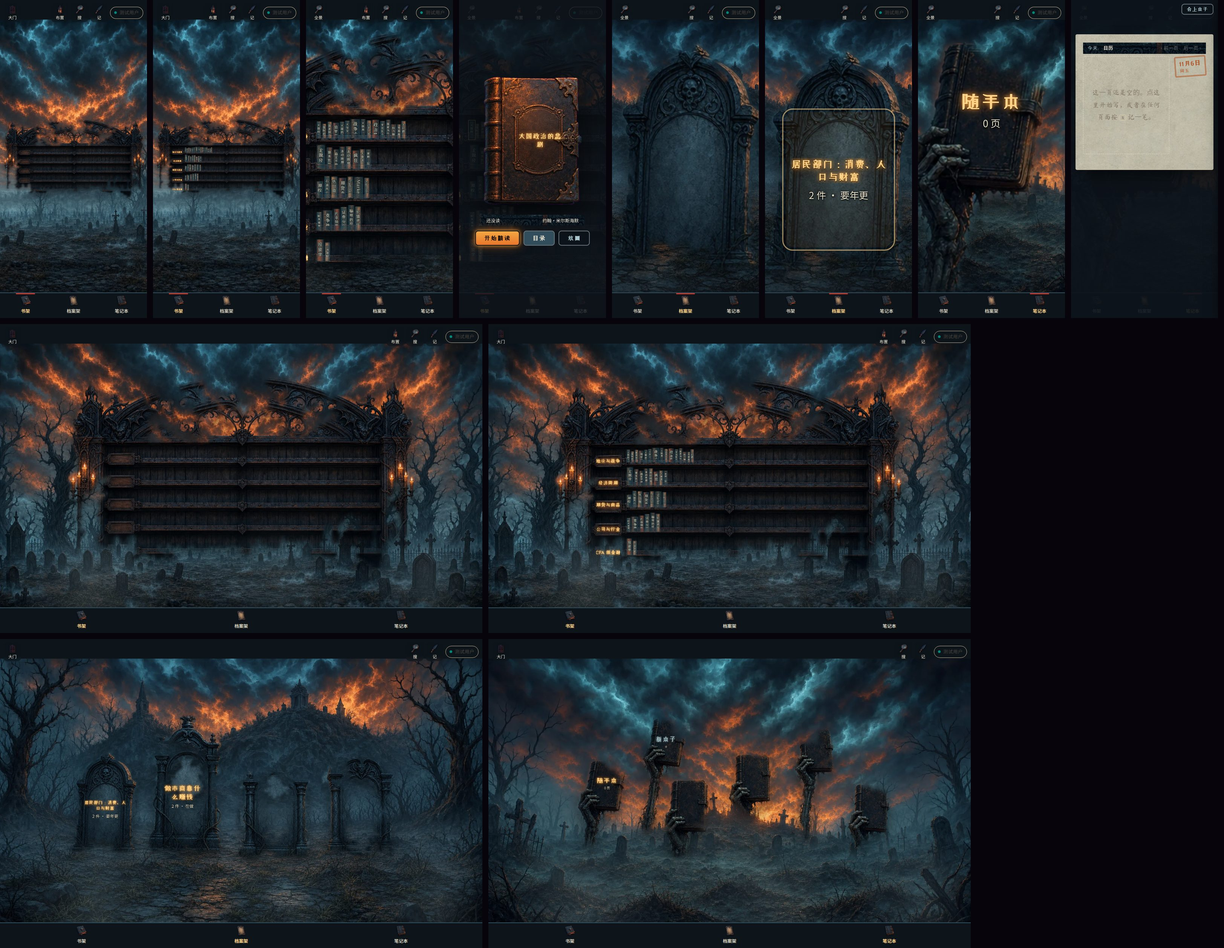
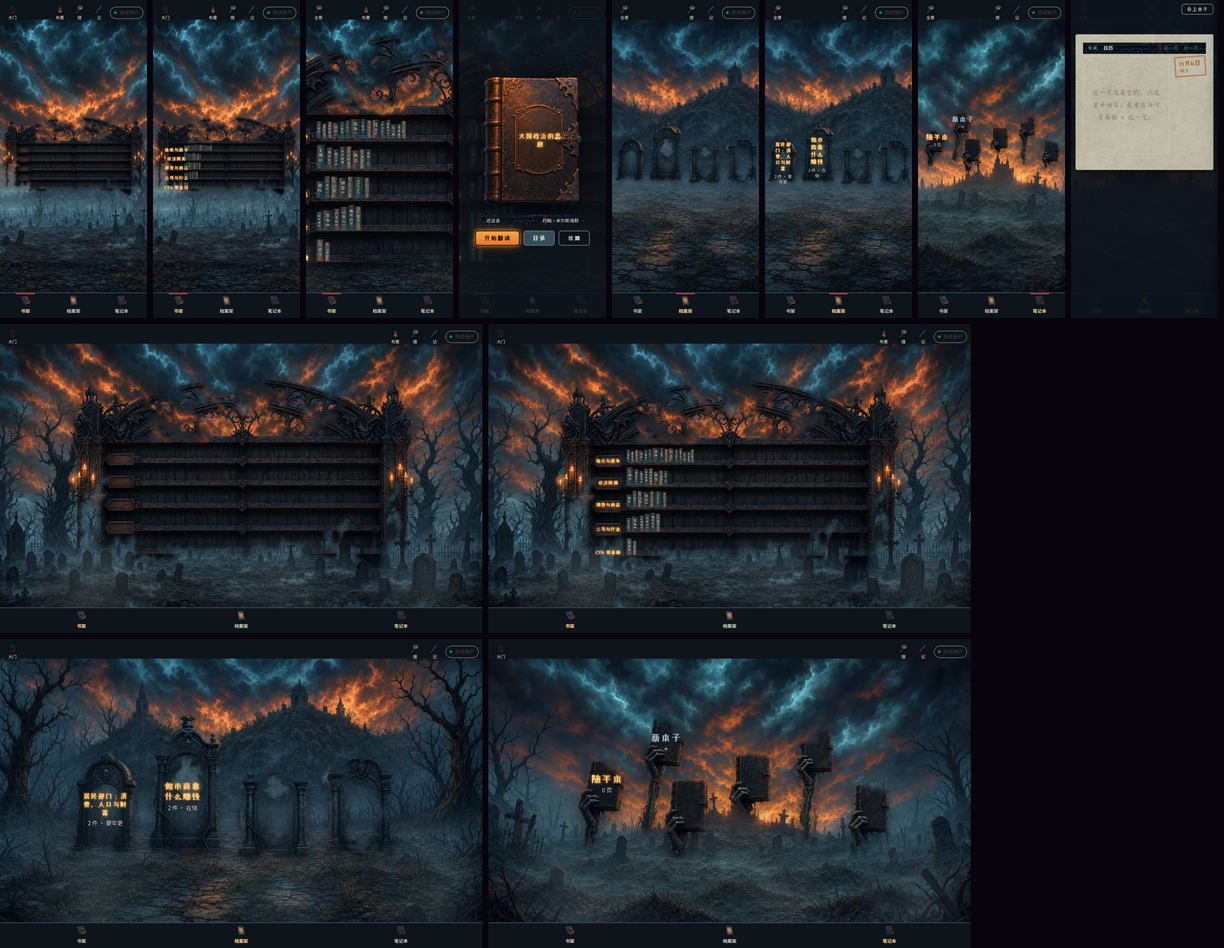
手机三场整座家具完整装进屏幕；碑名、本名、领域牌按屏幕尺寸画，远景隐藏书脊题签

diff --git a/dist/artifact.html b/dist/artifact.html
@@ -2782,6 +2782,18 @@ html.yx-app-scene[data-narrow="1"] .yx-world:not(.zoomed) .yx-rowhit{display:blo
 .yx-sheet-bar{display:flex;justify-content:flex-end;max-width:980px;margin:0 auto 8px}
 .yx-sheet .phead,.yx-sheet .yx-notes,.yx-sheet .nrack,.yx-sheet .banner{display:none}
 .yx-sheet .view{padding:0}
+
+/* 舞台上的字按屏幕尺寸画：世界缩小时字不跟着缩（--s 是镜头比例，--L 是屏幕上的基准字号） */
+.yx-stage{--L:18px}
+@media (max-width:900px){.yx-stage{--L:13px}}
+.yx-stage .yx-world .yx-stone-n{font-size:calc(var(--L) * var(--lab,1) * 1.5 / var(--s,1));line-height:1.2;white-space:normal;overflow:visible;max-width:calc(150px / var(--s,1))}
+.yx-stage .yx-world .yx-stone-s{font-size:calc(var(--L) * .85 / var(--s,1))}
+.yx-stage .yx-world .yx-stone{gap:calc(6px / var(--s,1));padding:0}
+.yx-stage .yx-world .yx-nb-n{font-size:calc(var(--L) * 1.4 / var(--s,1))}
+.yx-stage .yx-world .yx-nb-s{font-size:calc(var(--L) * .85 / var(--s,1))}
+.yx-stage .yx-world .yx-plaque{font-size:calc(var(--L) * .9 / var(--s,1));overflow:visible;white-space:nowrap}
+.yx-stage .yx-world.far .yx-book .yx-t{display:none}
+.yx-stage .yx-world:not(.far) .yx-plaque{font-size:18px}
 </style>
 
 <header class="topbar" id="rail"></header>
@@ -10988,8 +11000,8 @@ var FOIL = (function () {
     } else if (name === "archive") {
       var stones = yxStones(), P = YX.arch.panels;
       stones.slice(0, P.length).forEach(function (st, j) {
-        var p = P[j], Ln = String(st.name).length, fs = Ln <= 4 ? 32 : Ln <= 8 ? 26 : Ln <= 12 ? 21 : 17;
-        items += '<button type="button" class="yx-stone' + (st.folder ? " folder" : "") + '" data-act="abox" data-t="' + esc(st.t) + '" style="left:' + p[0] + "px;top:" + p[1] + "px;width:" + (p[2] - p[0]) + "px;height:" + (p[3] - p[1]) + "px;--i:" + (n++) + '"><span class="yx-stone-n" style="font-size:' + fs + 'px">' + esc(st.name) + '</span><span class="yx-stone-s">' + esc(st.sub) + "</span></button>";
+        var p = P[j], Ln = String(st.name).length;
+        items += '<button type="button" class="yx-stone' + (st.folder ? " folder" : "") + '" data-act="abox" data-t="' + esc(st.t) + '" style="left:' + p[0] + "px;top:" + p[1] + "px;width:" + (p[2] - p[0]) + "px;height:" + (p[3] - p[1]) + "px;--i:" + (n++) + ";--lab:" + (Ln <= 4 ? 1 : Ln <= 8 ? .82 : .68) + '"><span class="yx-stone-n">' + esc(st.name) + '</span><span class="yx-stone-s">' + esc(st.sub) + "</span></button>";
         anchors.push({ x: (p[0] + p[2]) / 2, y: (p[1] + p[3]) / 2 - 40 });
       });
       if (!stones.length) items += '<span class="yx-plaque" style="left:560px;top:560px;width:420px;height:60px">档案架还是空的</span>';
@@ -11013,19 +11025,17 @@ var FOIL = (function () {
     var W = stage.clientWidth, H = stage.clientHeight;
     world.style.transition = anim && !REDUCE ? "transform .42s cubic-bezier(.22,.9,.3,1)" : "none";
     world.style.transform = "translate(" + Math.round(W / 2 - CAM.cx * CAM.s) + "px," + Math.round(H / 2 - CAM.cy * CAM.s) + "px) scale(" + CAM.s.toFixed(4) + ")";
+    world.style.setProperty("--s", CAM.s.toFixed(4)); world.classList.toggle("far", CAM.s < 0.45);
   }
   function yxCamPreset(stage) {
     var W = stage.clientWidth, H = stage.clientHeight, name = stage.getAttribute("data-scene"), L = yxLayer(name), b = L.box, narrow = W < 900, A = S.yxAnchors || [];
-    if (!narrow || name === "shelf" && !S.yxZoomed) {
-      /* 整座家具完整放进屏里：桌面按整个世界 contain；手机按家具的包围盒适配宽度 */
-      var s = narrow ? Math.min((W - 16) / (b[2] - b[0]), (H - 40) / (b[3] - b[1])) : Math.min(W / YX.scene.w, H / YX.scene.h);
-      CAM = { s: s, cx: narrow ? (b[0] + b[2]) / 2 : YX.scene.w / 2, cy: narrow ? (b[1] + b[3]) / 2 : YX.scene.h / 2, zoomed: false };
-    } else if (name === "shelf") {
+    if (!narrow || !(name === "shelf" && S.yxZoomed)) {
+      /* 整座家具完整放进屏里：桌面按整个世界 contain；手机按家具的包围盒适配宽度（三个场都整座可见，字按屏幕尺寸另画） */
+      var s = narrow ? Math.min((W - 12) / (b[2] - b[0]), (H - 120) / (b[3] - b[1])) : Math.min(W / YX.scene.w, H / YX.scene.h);
+      CAM = { s: s, cx: narrow ? (b[0] + b[2]) / 2 : YX.scene.w / 2, cy: narrow ? (b[1] + b[3]) / 2 + 20 : YX.scene.h / 2, zoomed: false };
+    } else {
       var a = A.filter(function (x) { return x.row === S.yxZoomRow; })[0] || A[0] || { x: 600, y: 500 };
       CAM = { s: W / 430, cx: a.x, cy: a.y, zoomed: true };
-    } else {
-      var a2 = A[S.yxPanIx || 0] || { x: 768, y: 512 }, s2 = name === "archive" ? 0.72 * W / 180 : 0.62 * W / 120;
-      CAM = { s: s2, cx: a2.x, cy: a2.y, zoomed: false };
     }
   }
   function yxStageMount() {
@@ -11050,7 +11060,7 @@ var FOIL = (function () {
       if (sx === null) return; var dx = e.clientX - sx, dy = e.clientY - sy;
       if (!moved && Math.abs(dx) + Math.abs(dy) < 8) return;
       moved = true; var W = stage.clientWidth, H = stage.clientHeight, name = stage.getAttribute("data-scene");
-      var canPan = W < 900 && (name !== "shelf" || CAM.zoomed); if (!canPan) return;
+      var canPan = W < 900 && CAM.zoomed; if (!canPan) return;
       CAM.cx = Math.max(W / 2 / CAM.s, Math.min(YX.scene.w - W / 2 / CAM.s, c0.cx - dx / CAM.s));
       if (name === "shelf") CAM.cy = Math.max(H / 2 / CAM.s, Math.min(YX.scene.h - H / 2 / CAM.s, c0.cy - dy / CAM.s));
       yxCam(stage, world, false);
@@ -11059,7 +11069,7 @@ var FOIL = (function () {
       if (sx === null) return; sx = null;
       if (!moved) return; movedAt = Date.now();
       var name = stage.getAttribute("data-scene"), A = S.yxAnchors || [];
-      if (name !== "shelf" && A.length) { var best = 0, bd = 1e9; A.forEach(function (a, i) { var d = Math.abs(a.x - CAM.cx); if (d < bd) { bd = d; best = i; } }); S.yxPanIx = best; yxCamPreset(stage); yxCam(stage, world, true); }
+      void name; void A;
     };
     stage.addEventListener("pointerup", up); stage.addEventListener("pointercancel", up); stage.addEventListener("pointerleave", up);
     stage.addEventListener("click", function (e) { if (Date.now() - movedAt < 350) { e.stopPropagation(); e.preventDefault(); } }, true);

diff --git a/index.html b/index.html
@@ -2790,6 +2790,18 @@ html.yx-app-scene[data-narrow="1"] .yx-world:not(.zoomed) .yx-rowhit{display:blo
 .yx-sheet-bar{display:flex;justify-content:flex-end;max-width:980px;margin:0 auto 8px}
 .yx-sheet .phead,.yx-sheet .yx-notes,.yx-sheet .nrack,.yx-sheet .banner{display:none}
 .yx-sheet .view{padding:0}
+
+/* 舞台上的字按屏幕尺寸画：世界缩小时字不跟着缩（--s 是镜头比例，--L 是屏幕上的基准字号） */
+.yx-stage{--L:18px}
+@media (max-width:900px){.yx-stage{--L:13px}}
+.yx-stage .yx-world .yx-stone-n{font-size:calc(var(--L) * var(--lab,1) * 1.5 / var(--s,1));line-height:1.2;white-space:normal;overflow:visible;max-width:calc(150px / var(--s,1))}
+.yx-stage .yx-world .yx-stone-s{font-size:calc(var(--L) * .85 / var(--s,1))}
+.yx-stage .yx-world .yx-stone{gap:calc(6px / var(--s,1));padding:0}
+.yx-stage .yx-world .yx-nb-n{font-size:calc(var(--L) * 1.4 / var(--s,1))}
+.yx-stage .yx-world .yx-nb-s{font-size:calc(var(--L) * .85 / var(--s,1))}
+.yx-stage .yx-world .yx-plaque{font-size:calc(var(--L) * .9 / var(--s,1));overflow:visible;white-space:nowrap}
+.yx-stage .yx-world.far .yx-book .yx-t{display:none}
+.yx-stage .yx-world:not(.far) .yx-plaque{font-size:18px}
 </style>
 
 <header class="topbar" id="rail"></header>
@@ -10996,8 +11008,8 @@ var FOIL = (function () {
     } else if (name === "archive") {
       var stones = yxStones(), P = YX.arch.panels;
       stones.slice(0, P.length).forEach(function (st, j) {
-        var p = P[j], Ln = String(st.name).length, fs = Ln <= 4 ? 32 : Ln <= 8 ? 26 : Ln <= 12 ? 21 : 17;
-        items += '<button type="button" class="yx-stone' + (st.folder ? " folder" : "") + '" data-act="abox" data-t="' + esc(st.t) + '" style="left:' + p[0] + "px;top:" + p[1] + "px;width:" + (p[2] - p[0]) + "px;height:" + (p[3] - p[1]) + "px;--i:" + (n++) + '"><span class="yx-stone-n" style="font-size:' + fs + 'px">' + esc(st.name) + '</span><span class="yx-stone-s">' + esc(st.sub) + "</span></button>";
+        var p = P[j], Ln = String(st.name).length;
+        items += '<button type="button" class="yx-stone' + (st.folder ? " folder" : "") + '" data-act="abox" data-t="' + esc(st.t) + '" style="left:' + p[0] + "px;top:" + p[1] + "px;width:" + (p[2] - p[0]) + "px;height:" + (p[3] - p[1]) + "px;--i:" + (n++) + ";--lab:" + (Ln <= 4 ? 1 : Ln <= 8 ? .82 : .68) + '"><span class="yx-stone-n">' + esc(st.name) + '</span><span class="yx-stone-s">' + esc(st.sub) + "</span></button>";
         anchors.push({ x: (p[0] + p[2]) / 2, y: (p[1] + p[3]) / 2 - 40 });
       });
       if (!stones.length) items += '<span class="yx-plaque" style="left:560px;top:560px;width:420px;height:60px">档案架还是空的</span>';
@@ -11021,19 +11033,17 @@ var FOIL = (function () {
     var W = stage.clientWidth, H = stage.clientHeight;
     world.style.transition = anim && !REDUCE ? "transform .42s cubic-bezier(.22,.9,.3,1)" : "none";
     world.style.transform = "translate(" + Math.round(W / 2 - CAM.cx * CAM.s) + "px," + Math.round(H / 2 - CAM.cy * CAM.s) + "px) scale(" + CAM.s.toFixed(4) + ")";
+    world.style.setProperty("--s", CAM.s.toFixed(4)); world.classList.toggle("far", CAM.s < 0.45);
   }
   function yxCamPreset(stage) {
     var W = stage.clientWidth, H = stage.clientHeight, name = stage.getAttribute("data-scene"), L = yxLayer(name), b = L.box, narrow = W < 900, A = S.yxAnchors || [];
-    if (!narrow || name === "shelf" && !S.yxZoomed) {
-      /* 整座家具完整放进屏里：桌面按整个世界 contain；手机按家具的包围盒适配宽度 */
-      var s = narrow ? Math.min((W - 16) / (b[2] - b[0]), (H - 40) / (b[3] - b[1])) : Math.min(W / YX.scene.w, H / YX.scene.h);
-      CAM = { s: s, cx: narrow ? (b[0] + b[2]) / 2 : YX.scene.w / 2, cy: narrow ? (b[1] + b[3]) / 2 : YX.scene.h / 2, zoomed: false };
-    } else if (name === "shelf") {
+    if (!narrow || !(name === "shelf" && S.yxZoomed)) {
+      /* 整座家具完整放进屏里：桌面按整个世界 contain；手机按家具的包围盒适配宽度（三个场都整座可见，字按屏幕尺寸另画） */
+      var s = narrow ? Math.min((W - 12) / (b[2] - b[0]), (H - 120) / (b[3] - b[1])) : Math.min(W / YX.scene.w, H / YX.scene.h);
+      CAM = { s: s, cx: narrow ? (b[0] + b[2]) / 2 : YX.scene.w / 2, cy: narrow ? (b[1] + b[3]) / 2 + 20 : YX.scene.h / 2, zoomed: false };
+    } else {
       var a = A.filter(function (x) { return x.row === S.yxZoomRow; })[0] || A[0] || { x: 600, y: 500 };
       CAM = { s: W / 430, cx: a.x, cy: a.y, zoomed: true };
-    } else {
-      var a2 = A[S.yxPanIx || 0] || { x: 768, y: 512 }, s2 = name === "archive" ? 0.72 * W / 180 : 0.62 * W / 120;
-      CAM = { s: s2, cx: a2.x, cy: a2.y, zoomed: false };
     }
   }
   function yxStageMount() {
@@ -11058,7 +11068,7 @@ var FOIL = (function () {
       if (sx === null) return; var dx = e.clientX - sx, dy = e.clientY - sy;
       if (!moved && Math.abs(dx) + Math.abs(dy) < 8) return;
       moved = true; var W = stage.clientWidth, H = stage.clientHeight, name = stage.getAttribute("data-scene");
-      var canPan = W < 900 && (name !== "shelf" || CAM.zoomed); if (!canPan) return;
+      var canPan = W < 900 && CAM.zoomed; if (!canPan) return;
       CAM.cx = Math.max(W / 2 / CAM.s, Math.min(YX.scene.w - W / 2 / CAM.s, c0.cx - dx / CAM.s));
       if (name === "shelf") CAM.cy = Math.max(H / 2 / CAM.s, Math.min(YX.scene.h - H / 2 / CAM.s, c0.cy - dy / CAM.s));
       yxCam(stage, world, false);
@@ -11067,7 +11077,7 @@ var FOIL = (function () {
       if (sx === null) return; sx = null;
       if (!moved) return; movedAt = Date.now();
       var name = stage.getAttribute("data-scene"), A = S.yxAnchors || [];
-      if (name !== "shelf" && A.length) { var best = 0, bd = 1e9; A.forEach(function (a, i) { var d = Math.abs(a.x - CAM.cx); if (d < bd) { bd = d; best = i; } }); S.yxPanIx = best; yxCamPreset(stage); yxCam(stage, world, true); }
+      void name; void A;
     };
     stage.addEventListener("pointerup", up); stage.addEventListener("pointercancel", up); stage.addEventListener("pointerleave", up);
     stage.addEventListener("click", function (e) { if (Date.now() - movedAt < 350) { e.stopPropagation(); e.preventDefault(); } }, true);

diff --git a/server/index.html b/server/index.html
@@ -2790,6 +2790,18 @@ html.yx-app-scene[data-narrow="1"] .yx-world:not(.zoomed) .yx-rowhit{display:blo
 .yx-sheet-bar{display:flex;justify-content:flex-end;max-width:980px;margin:0 auto 8px}
 .yx-sheet .phead,.yx-sheet .yx-notes,.yx-sheet .nrack,.yx-sheet .banner{display:none}
 .yx-sheet .view{padding:0}
+
+/* 舞台上的字按屏幕尺寸画：世界缩小时字不跟着缩（--s 是镜头比例，--L 是屏幕上的基准字号） */
+.yx-stage{--L:18px}
+@media (max-width:900px){.yx-stage{--L:13px}}
+.yx-stage .yx-world .yx-stone-n{font-size:calc(var(--L) * var(--lab,1) * 1.5 / var(--s,1));line-height:1.2;white-space:normal;overflow:visible;max-width:calc(150px / var(--s,1))}
+.yx-stage .yx-world .yx-stone-s{font-size:calc(var(--L) * .85 / var(--s,1))}
+.yx-stage .yx-world .yx-stone{gap:calc(6px / var(--s,1));padding:0}
+.yx-stage .yx-world .yx-nb-n{font-size:calc(var(--L) * 1.4 / var(--s,1))}
+.yx-stage .yx-world .yx-nb-s{font-size:calc(var(--L) * .85 / var(--s,1))}
+.yx-stage .yx-world .yx-plaque{font-size:calc(var(--L) * .9 / var(--s,1));overflow:visible;white-space:nowrap}
+.yx-stage .yx-world.far .yx-book .yx-t{display:none}
+.yx-stage .yx-world:not(.far) .yx-plaque{font-size:18px}
 </style>
 
 <header class="topbar" id="rail"></header>
@@ -11143,8 +11155,8 @@ var FOIL = (function () {
     } else if (name === "archive") {
       var stones = yxStones(), P = YX.arch.panels;
       stones.slice(0, P.length).forEach(function (st, j) {
-        var p = P[j], Ln = String(st.name).length, fs = Ln <= 4 ? 32 : Ln <= 8 ? 26 : Ln <= 12 ? 21 : 17;
-        items += '<button type="button" class="yx-stone' + (st.folder ? " folder" : "") + '" data-act="abox" data-t="' + esc(st.t) + '" style="left:' + p[0] + "px;top:" + p[1] + "px;width:" + (p[2] - p[0]) + "px;height:" + (p[3] - p[1]) + "px;--i:" + (n++) + '"><span class="yx-stone-n" style="font-size:' + fs + 'px">' + esc(st.name) + '</span><span class="yx-stone-s">' + esc(st.sub) + "</span></button>";
+        var p = P[j], Ln = String(st.name).length;
+        items += '<button type="button" class="yx-stone' + (st.folder ? " folder" : "") + '" data-act="abox" data-t="' + esc(st.t) + '" style="left:' + p[0] + "px;top:" + p[1] + "px;width:" + (p[2] - p[0]) + "px;height:" + (p[3] - p[1]) + "px;--i:" + (n++) + ";--lab:" + (Ln <= 4 ? 1 : Ln <= 8 ? .82 : .68) + '"><span class="yx-stone-n">' + esc(st.name) + '</span><span class="yx-stone-s">' + esc(st.sub) + "</span></button>";
         anchors.push({ x: (p[0] + p[2]) / 2, y: (p[1] + p[3]) / 2 - 40 });
       });
       if (!stones.length) items += '<span class="yx-plaque" style="left:560px;top:560px;width:420px;height:60px">档案架还是空的</span>';
@@ -11168,19 +11180,17 @@ var FOIL = (function () {
     var W = stage.clientWidth, H = stage.clientHeight;
     world.style.transition = anim && !REDUCE ? "transform .42s cubic-bezier(.22,.9,.3,1)" : "none";
     world.style.transform = "translate(" + Math.round(W / 2 - CAM.cx * CAM.s) + "px," + Math.round(H / 2 - CAM.cy * CAM.s) + "px) scale(" + CAM.s.toFixed(4) + ")";
+    world.style.setProperty("--s", CAM.s.toFixed(4)); world.classList.toggle("far", CAM.s < 0.45);
   }
   function yxCamPreset(stage) {
     var W = stage.clientWidth, H = stage.clientHeight, name = stage.getAttribute("data-scene"), L = yxLayer(name), b = L.box, narrow = W < 900, A = S.yxAnchors || [];
-    if (!narrow || name === "shelf" && !S.yxZoomed) {
-      /* 整座家具完整放进屏里：桌面按整个世界 contain；手机按家具的包围盒适配宽度 */
-      var s = narrow ? Math.min((W - 16) / (b[2] - b[0]), (H - 40) / (b[3] - b[1])) : Math.min(W / YX.scene.w, H / YX.scene.h);
-      CAM = { s: s, cx: narrow ? (b[0] + b[2]) / 2 : YX.scene.w / 2, cy: narrow ? (b[1] + b[3]) / 2 : YX.scene.h / 2, zoomed: false };
-    } else if (name === "shelf") {
+    if (!narrow || !(name === "shelf" && S.yxZoomed)) {
+      /* 整座家具完整放进屏里：桌面按整个世界 contain；手机按家具的包围盒适配宽度（三个场都整座可见，字按屏幕尺寸另画） */
+      var s = narrow ? Math.min((W - 12) / (b[2] - b[0]), (H - 120) / (b[3] - b[1])) : Math.min(W / YX.scene.w, H / YX.scene.h);
+      CAM = { s: s, cx: narrow ? (b[0] + b[2]) / 2 : YX.scene.w / 2, cy: narrow ? (b[1] + b[3]) / 2 + 20 : YX.scene.h / 2, zoomed: false };
+    } else {
       var a = A.filter(function (x) { return x.row === S.yxZoomRow; })[0] || A[0] || { x: 600, y: 500 };
       CAM = { s: W / 430, cx: a.x, cy: a.y, zoomed: true };
-    } else {
-      var a2 = A[S.yxPanIx || 0] || { x: 768, y: 512 }, s2 = name === "archive" ? 0.72 * W / 180 : 0.62 * W / 120;
-      CAM = { s: s2, cx: a2.x, cy: a2.y, zoomed: false };
     }
   }
   function yxStageMount() {
@@ -11205,7 +11215,7 @@ var FOIL = (function () {
       if (sx === null) return; var dx = e.clientX - sx, dy = e.clientY - sy;
       if (!moved && Math.abs(dx) + Math.abs(dy) < 8) return;
       moved = true; var W = stage.clientWidth, H = stage.clientHeight, name = stage.getAttribute("data-scene");
-      var canPan = W < 900 && (name !== "shelf" || CAM.zoomed); if (!canPan) return;
+      var canPan = W < 900 && CAM.zoomed; if (!canPan) return;
       CAM.cx = Math.max(W / 2 / CAM.s, Math.min(YX.scene.w - W / 2 / CAM.s, c0.cx - dx / CAM.s));
       if (name === "shelf") CAM.cy = Math.max(H / 2 / CAM.s, Math.min(YX.scene.h - H / 2 / CAM.s, c0.cy - dy / CAM.s));
       yxCam(stage, world, false);
@@ -11214,7 +11224,7 @@ var FOIL = (function () {
       if (sx === null) return; sx = null;
       if (!moved) return; movedAt = Date.now();
       var name = stage.getAttribute("data-scene"), A = S.yxAnchors || [];
-      if (name !== "shelf" && A.length) { var best = 0, bd = 1e9; A.forEach(function (a, i) { var d = Math.abs(a.x - CAM.cx); if (d < bd) { bd = d; best = i; } }); S.yxPanIx = best; yxCamPreset(stage); yxCam(stage, world, true); }
+      void name; void A;
     };
     stage.addEventListener("pointerup", up); stage.addEventListener("pointercancel", up); stage.addEventListener("pointerleave", up);
     stage.addEventListener("click", function (e) { if (Date.now() - movedAt < 350) { e.stopPropagation(); e.preventDefault(); } }, true);

diff --git a/youchai/index.html b/youchai/index.html
@@ -2791,6 +2791,18 @@ html.yx-app-scene[data-narrow="1"] .yx-world:not(.zoomed) .yx-rowhit{display:blo
 .yx-sheet-bar{display:flex;justify-content:flex-end;max-width:980px;margin:0 auto 8px}
 .yx-sheet .phead,.yx-sheet .yx-notes,.yx-sheet .nrack,.yx-sheet .banner{display:none}
 .yx-sheet .view{padding:0}
+
+/* 舞台上的字按屏幕尺寸画：世界缩小时字不跟着缩（--s 是镜头比例，--L 是屏幕上的基准字号） */
+.yx-stage{--L:18px}
+@media (max-width:900px){.yx-stage{--L:13px}}
+.yx-stage .yx-world .yx-stone-n{font-size:calc(var(--L) * var(--lab,1) * 1.5 / var(--s,1));line-height:1.2;white-space:normal;overflow:visible;max-width:calc(150px / var(--s,1))}
+.yx-stage .yx-world .yx-stone-s{font-size:calc(var(--L) * .85 / var(--s,1))}
+.yx-stage .yx-world .yx-stone{gap:calc(6px / var(--s,1));padding:0}
+.yx-stage .yx-world .yx-nb-n{font-size:calc(var(--L) * 1.4 / var(--s,1))}
+.yx-stage .yx-world .yx-nb-s{font-size:calc(var(--L) * .85 / var(--s,1))}
+.yx-stage .yx-world .yx-plaque{font-size:calc(var(--L) * .9 / var(--s,1));overflow:visible;white-space:nowrap}
+.yx-stage .yx-world.far .yx-book .yx-t{display:none}
+.yx-stage .yx-world:not(.far) .yx-plaque{font-size:18px}
 </style>
 
 <header class="topbar" id="rail"></header>
@@ -11145,8 +11157,8 @@ var FOIL = (function () {
     } else if (name === "archive") {
       var stones = yxStones(), P = YX.arch.panels;
       stones.slice(0, P.length).forEach(function (st, j) {
-        var p = P[j], Ln = String(st.name).length, fs = Ln <= 4 ? 32 : Ln <= 8 ? 26 : Ln <= 12 ? 21 : 17;
-        items += '<button type="button" class="yx-stone' + (st.folder ? " folder" : "") + '" data-act="abox" data-t="' + esc(st.t) + '" style="left:' + p[0] + "px;top:" + p[1] + "px;width:" + (p[2] - p[0]) + "px;height:" + (p[3] - p[1]) + "px;--i:" + (n++) + '"><span class="yx-stone-n" style="font-size:' + fs + 'px">' + esc(st.name) + '</span><span class="yx-stone-s">' + esc(st.sub) + "</span></button>";
+        var p = P[j], Ln = String(st.name).length;
+        items += '<button type="button" class="yx-stone' + (st.folder ? " folder" : "") + '" data-act="abox" data-t="' + esc(st.t) + '" style="left:' + p[0] + "px;top:" + p[1] + "px;width:" + (p[2] - p[0]) + "px;height:" + (p[3] - p[1]) + "px;--i:" + (n++) + ";--lab:" + (Ln <= 4 ? 1 : Ln <= 8 ? .82 : .68) + '"><span class="yx-stone-n">' + esc(st.name) + '</span><span class="yx-stone-s">' + esc(st.sub) + "</span></button>";
         anchors.push({ x: (p[0] + p[2]) / 2, y: (p[1] + p[3]) / 2 - 40 });
       });
       if (!stones.length) items += '<span class="yx-plaque" style="left:560px;top:560px;width:420px;height:60px">档案架还是空的</span>';
@@ -11170,19 +11182,17 @@ var FOIL = (function () {
     var W = stage.clientWidth, H = stage.clientHeight;
     world.style.transition = anim && !REDUCE ? "transform .42s cubic-bezier(.22,.9,.3,1)" : "none";
     world.style.transform = "translate(" + Math.round(W / 2 - CAM.cx * CAM.s) + "px," + Math.round(H / 2 - CAM.cy * CAM.s) + "px) scale(" + CAM.s.toFixed(4) + ")";
+    world.style.setProperty("--s", CAM.s.toFixed(4)); world.classList.toggle("far", CAM.s < 0.45);
   }
   function yxCamPreset(stage) {
     var W = stage.clientWidth, H = stage.clientHeight, name = stage.getAttribute("data-scene"), L = yxLayer(name), b = L.box, narrow = W < 900, A = S.yxAnchors || [];
-    if (!narrow || name === "shelf" && !S.yxZoomed) {
-      /* 整座家具完整放进屏里：桌面按整个世界 contain；手机按家具的包围盒适配宽度 */
-      var s = narrow ? Math.min((W - 16) / (b[2] - b[0]), (H - 40) / (b[3] - b[1])) : Math.min(W / YX.scene.w, H / YX.scene.h);
-      CAM = { s: s, cx: narrow ? (b[0] + b[2]) / 2 : YX.scene.w / 2, cy: narrow ? (b[1] + b[3]) / 2 : YX.scene.h / 2, zoomed: false };
-    } else if (name === "shelf") {
+    if (!narrow || !(name === "shelf" && S.yxZoomed)) {
+      /* 整座家具完整放进屏里：桌面按整个世界 contain；手机按家具的包围盒适配宽度（三个场都整座可见，字按屏幕尺寸另画） */
+      var s = narrow ? Math.min((W - 12) / (b[2] - b[0]), (H - 120) / (b[3] - b[1])) : Math.min(W / YX.scene.w, H / YX.scene.h);
+      CAM = { s: s, cx: narrow ? (b[0] + b[2]) / 2 : YX.scene.w / 2, cy: narrow ? (b[1] + b[3]) / 2 + 20 : YX.scene.h / 2, zoomed: false };
+    } else {
       var a = A.filter(function (x) { return x.row === S.yxZoomRow; })[0] || A[0] || { x: 600, y: 500 };
       CAM = { s: W / 430, cx: a.x, cy: a.y, zoomed: true };
-    } else {
-      var a2 = A[S.yxPanIx || 0] || { x: 768, y: 512 }, s2 = name === "archive" ? 0.72 * W / 180 : 0.62 * W / 120;
-      CAM = { s: s2, cx: a2.x, cy: a2.y, zoomed: false };
     }
   }
   function yxStageMount() {
@@ -11207,7 +11217,7 @@ var FOIL = (function () {
       if (sx === null) return; var dx = e.clientX - sx, dy = e.clientY - sy;
       if (!moved && Math.abs(dx) + Math.abs(dy) < 8) return;
       moved = true; var W = stage.clientWidth, H = stage.clientHeight, name = stage.getAttribute("data-scene");
-      var canPan = W < 900 && (name !== "shelf" || CAM.zoomed); if (!canPan) return;
+      var canPan = W < 900 && CAM.zoomed; if (!canPan) return;
       CAM.cx = Math.max(W / 2 / CAM.s, Math.min(YX.scene.w - W / 2 / CAM.s, c0.cx - dx / CAM.s));
       if (name === "shelf") CAM.cy = Math.max(H / 2 / CAM.s, Math.min(YX.scene.h - H / 2 / CAM.s, c0.cy - dy / CAM.s));
       yxCam(stage, world, false);
@@ -11216,7 +11226,7 @@ var FOIL = (function () {
       if (sx === null) return; sx = null;
       if (!moved) return; movedAt = Date.now();
       var name = stage.getAttribute("data-scene"), A = S.yxAnchors || [];
-      if (name !== "shelf" && A.length) { var best = 0, bd = 1e9; A.forEach(function (a, i) { var d = Math.abs(a.x - CAM.cx); if (d < bd) { bd = d; best = i; } }); S.yxPanIx = best; yxCamPreset(stage); yxCam(stage, world, true); }
+      void name; void A;
     };
     stage.addEventListener("pointerup", up); stage.addEventListener("pointercancel", up); stage.addEventListener("pointerleave", up);
     stage.addEventListener("click", function (e) { if (Date.now() - movedAt < 350) { e.stopPropagation(); e.preventDefault(); } }, true);

diff --git a/src/app.js b/src/app.js
@@ -5848,8 +5848,8 @@ var FOIL = (function () {
     } else if (name === "archive") {
       var stones = yxStones(), P = YX.arch.panels;
       stones.slice(0, P.length).forEach(function (st, j) {
-        var p = P[j], Ln = String(st.name).length, fs = Ln <= 4 ? 32 : Ln <= 8 ? 26 : Ln <= 12 ? 21 : 17;
-        items += '<button type="button" class="yx-stone' + (st.folder ? " folder" : "") + '" data-act="abox" data-t="' + esc(st.t) + '" style="left:' + p[0] + "px;top:" + p[1] + "px;width:" + (p[2] - p[0]) + "px;height:" + (p[3] - p[1]) + "px;--i:" + (n++) + '"><span class="yx-stone-n" style="font-size:' + fs + 'px">' + esc(st.name) + '</span><span class="yx-stone-s">' + esc(st.sub) + "</span></button>";
+        var p = P[j], Ln = String(st.name).length;
+        items += '<button type="button" class="yx-stone' + (st.folder ? " folder" : "") + '" data-act="abox" data-t="' + esc(st.t) + '" style="left:' + p[0] + "px;top:" + p[1] + "px;width:" + (p[2] - p[0]) + "px;height:" + (p[3] - p[1]) + "px;--i:" + (n++) + ";--lab:" + (Ln <= 4 ? 1 : Ln <= 8 ? .82 : .68) + '"><span class="yx-stone-n">' + esc(st.name) + '</span><span class="yx-stone-s">' + esc(st.sub) + "</span></button>";
         anchors.push({ x: (p[0] + p[2]) / 2, y: (p[1] + p[3]) / 2 - 40 });
       });
       if (!stones.length) items += '<span class="yx-plaque" style="left:560px;top:560px;width:420px;height:60px">档案架还是空的</span>';
@@ -5873,19 +5873,17 @@ var FOIL = (function () {
     var W = stage.clientWidth, H = stage.clientHeight;
     world.style.transition = anim && !REDUCE ? "transform .42s cubic-bezier(.22,.9,.3,1)" : "none";
     world.style.transform = "translate(" + Math.round(W / 2 - CAM.cx * CAM.s) + "px," + Math.round(H / 2 - CAM.cy * CAM.s) + "px) scale(" + CAM.s.toFixed(4) + ")";
+    world.style.setProperty("--s", CAM.s.toFixed(4)); world.classList.toggle("far", CAM.s < 0.45);
   }
   function yxCamPreset(stage) {
     var W = stage.clientWidth, H = stage.clientHeight, name = stage.getAttribute("data-scene"), L = yxLayer(name), b = L.box, narrow = W < 900, A = S.yxAnchors || [];
-    if (!narrow || name === "shelf" && !S.yxZoomed) {
-      /* 整座家具完整放进屏里：桌面按整个世界 contain；手机按家具的包围盒适配宽度 */
-      var s = narrow ? Math.min((W - 16) / (b[2] - b[0]), (H - 40) / (b[3] - b[1])) : Math.min(W / YX.scene.w, H / YX.scene.h);
-      CAM = { s: s, cx: narrow ? (b[0] + b[2]) / 2 : YX.scene.w / 2, cy: narrow ? (b[1] + b[3]) / 2 : YX.scene.h / 2, zoomed: false };
-    } else if (name === "shelf") {
+    if (!narrow || !(name === "shelf" && S.yxZoomed)) {
+      /* 整座家具完整放进屏里：桌面按整个世界 contain；手机按家具的包围盒适配宽度（三个场都整座可见，字按屏幕尺寸另画） */
+      var s = narrow ? Math.min((W - 12) / (b[2] - b[0]), (H - 120) / (b[3] - b[1])) : Math.min(W / YX.scene.w, H / YX.scene.h);
+      CAM = { s: s, cx: narrow ? (b[0] + b[2]) / 2 : YX.scene.w / 2, cy: narrow ? (b[1] + b[3]) / 2 + 20 : YX.scene.h / 2, zoomed: false };
+    } else {
       var a = A.filter(function (x) { return x.row === S.yxZoomRow; })[0] || A[0] || { x: 600, y: 500 };
       CAM = { s: W / 430, cx: a.x, cy: a.y, zoomed: true };
-    } else {
-      var a2 = A[S.yxPanIx || 0] || { x: 768, y: 512 }, s2 = name === "archive" ? 0.72 * W / 180 : 0.62 * W / 120;
-      CAM = { s: s2, cx: a2.x, cy: a2.y, zoomed: false };
     }
   }
   function yxStageMount() {
@@ -5910,7 +5908,7 @@ var FOIL = (function () {
       if (sx === null) return; var dx = e.clientX - sx, dy = e.clientY - sy;
       if (!moved && Math.abs(dx) + Math.abs(dy) < 8) return;
       moved = true; var W = stage.clientWidth, H = stage.clientHeight, name = stage.getAttribute("data-scene");
-      var canPan = W < 900 && (name !== "shelf" || CAM.zoomed); if (!canPan) return;
+      var canPan = W < 900 && CAM.zoomed; if (!canPan) return;
       CAM.cx = Math.max(W / 2 / CAM.s, Math.min(YX.scene.w - W / 2 / CAM.s, c0.cx - dx / CAM.s));
       if (name === "shelf") CAM.cy = Math.max(H / 2 / CAM.s, Math.min(YX.scene.h - H / 2 / CAM.s, c0.cy - dy / CAM.s));
       yxCam(stage, world, false);
@@ -5919,7 +5917,7 @@ var FOIL = (function () {
       if (sx === null) return; sx = null;
       if (!moved) return; movedAt = Date.now();
       var name = stage.getAttribute("data-scene"), A = S.yxAnchors || [];
-      if (name !== "shelf" && A.length) { var best = 0, bd = 1e9; A.forEach(function (a, i) { var d = Math.abs(a.x - CAM.cx); if (d < bd) { bd = d; best = i; } }); S.yxPanIx = best; yxCamPreset(stage); yxCam(stage, world, true); }
+      void name; void A;
     };
     stage.addEventListener("pointerup", up); stage.addEventListener("pointercancel", up); stage.addEventListener("pointerleave", up);
     stage.addEventListener("click", function (e) { if (Date.now() - movedAt < 350) { e.stopPropagation(); e.preventDefault(); } }, true);

diff --git a/src/page.html b/src/page.html
@@ -2782,6 +2782,18 @@ html.yx-app-scene[data-narrow="1"] .yx-world:not(.zoomed) .yx-rowhit{display:blo
 .yx-sheet-bar{display:flex;justify-content:flex-end;max-width:980px;margin:0 auto 8px}
 .yx-sheet .phead,.yx-sheet .yx-notes,.yx-sheet .nrack,.yx-sheet .banner{display:none}
 .yx-sheet .view{padding:0}
+
+/* 舞台上的字按屏幕尺寸画：世界缩小时字不跟着缩（--s 是镜头比例，--L 是屏幕上的基准字号） */
+.yx-stage{--L:18px}
+@media (max-width:900px){.yx-stage{--L:13px}}
+.yx-stage .yx-world .yx-stone-n{font-size:calc(var(--L) * var(--lab,1) * 1.5 / var(--s,1));line-height:1.2;white-space:normal;overflow:visible;max-width:calc(150px / var(--s,1))}
+.yx-stage .yx-world .yx-stone-s{font-size:calc(var(--L) * .85 / var(--s,1))}
+.yx-stage .yx-world .yx-stone{gap:calc(6px / var(--s,1));padding:0}
+.yx-stage .yx-world .yx-nb-n{font-size:calc(var(--L) * 1.4 / var(--s,1))}
+.yx-stage .yx-world .yx-nb-s{font-size:calc(var(--L) * .85 / var(--s,1))}
+.yx-stage .yx-world .yx-plaque{font-size:calc(var(--L) * .9 / var(--s,1));overflow:visible;white-space:nowrap}
+.yx-stage .yx-world.far .yx-book .yx-t{display:none}
+.yx-stage .yx-world:not(.far) .yx-plaque{font-size:18px}
 </style>
 
 <header class="topbar" id="rail"></header>

diff --git a/sw.js b/sw.js
@@ -2,7 +2,7 @@
  * 就像装了个 App，地铁里没网也能打开翻剪报、看进度（记录的读写照常走网络）。
  * /api/、/_blob/（电子书文件）、登录相关从不缓存。
  * 版本号由 build.py 盖进来：页面一发新版，旧缓存整个换掉。 */
-var V = "yxl-56d786ddb5";
+var V = "yxl-82de8c73bf";
 self.addEventListener("install", function () { self.skipWaiting(); });
 self.addEventListener("activate", function (e) {
   e.waitUntil(caches.keys().then(function (ks) {

diff --git a/STATUS.md b/STATUS.md
@@ -11,6 +11,7 @@ updated: 2026-11-06
 # 状态
 
 ## 现在停在哪
+- 2026-11-06 深夜 用户手机上看：书架等都不完整 → 手机三个场一律整座家具完整装进屏幕（镜头按家具包围盒适配宽、竖向居中，「一屏一座」的碑与本子镜头去掉），碑名、件数、本名、领域牌的字按屏幕尺寸画（CSS 用镜头比例 --s 反算，世界缩小字不缩），远景时书脊题签隐藏、点一层推近后再显示；拖动只在书架推近后。Playwright 核过手机书架 0.28、碑 0.30、本子整座可见，推近与封面屏照旧，无报错；截图 docs/ui-app.jpg 待重出。待用户手机上再看。
 - 2026-11-06 深夜 用户在手机上看 App：四个页面不符合要求，书架页进去应该是干净的场颤抖着长出一整座书架，各处都乱（登录横幅、切换条、筛选片、色签、搜索框还在，场景裁成放大的碎片）→ App 重做成游戏式舞台：① 场与家具分层——用 edit 端点出三张「空场」（P035 到 P037，约 4.5 元：去掉宽柜 / 碑 / 骨臂，同一片天与宅子），`tools/ui/split_scene.py` 与原图差分拆出家具层（限定区域、羽化；碑与雾地同色要把阈值降到 16 按四座分区），进 vendor/ui/scenes/*-field.webp 与 *-furniture.webp，kit.json 记 box；② App 壳重写——场景路由上没有顶栏、横幅、切换条、筛选、色签、搜索框，只剩贴边的 HUD（左：大门 / 全景；右：布置灯笼（书架页）、搜、记、登录或账号）与底栏三条；③ 全屏舞台 `.yx-stage`：空场铺满屏（object-fit cover），世界 1536×1024 整块用镜头 transform 摆放，家具层加书 / 碑 / 本子在 `.yx-rise` 组里颤抖着长出来（1.3 秒，第二次短版，点一下跳过，减少动效不动），雾流常驻；④ 镜头：桌面整个世界 contain；手机书架先全景（整座柜子按宽适配、完整可见）→ 点一层推近（HUD 出「全景」退回，可拖着左右看），碑一屏一座、本子一屏一本，拖着换松手吸附；⑤ 点书弹封面屏照旧，点碑进牌桌照旧，点随手本在舞台上盖一层本子页（「合上本子」收起）。Playwright 核过手机与桌面：无壳杂物、进场全长、推近、封面屏、碑、本子页都对，无报错无坏链；截图 docs/ui-app.jpg。主站（研习录）不受影响。待用户手机上再看；已知：手机全景时书脊很小只是看个整体，推近后才点；多于一座柜（书超过五层）舞台先只放第一座；本子页在舞台上还是旧的两栏排版。
 - 2026-11-06 深夜 用户：把首页、书架、档案架、笔记本打包成独立 App → 做成独立入口 `youchai/`（PWA）：build.py 多出一份 youchai/index.html（服务器版加 window.YXL_APP 标记，资源路径改 ../，自己的 manifest 与图标），app.js 的 APP 模式：场景固定「墓园宽柜」、起页大门（#gate，没有「旧首页」钮）、顶栏品牌「邮差」加大门图标、导航只留书架 / 档案架 / 笔记本（带零件图标），数据与主站同一份 Baba 账号；youchai/manifest.json（名字邮差、起页 ./#gate、夜色主题色）、图标三张从大门场景裁加站名叠字。Baba 的通配路由按目录名就能在 /youchai 访问（youchai 不在 DENY 里，推到 main 即上线，cron 五分钟拉）；手机浏览器打开 baba.wogucloud.cn/youchai/ 「添加到主屏幕」就是独立 App，Service Worker 共用根目录的 sw.js。mock 加了 /youchai/ 路由，Playwright 核过桌面与手机：标题「邮差」、导航三条、起页大门、三场零件图无坏链、manifest 与三张图标 200、无报错；截图 docs/ui-app.jpg。待用户在手机上装一次试：图标、启动页、离线打开；电子书阅读器在 App 里的夜读、手势还没专门测。
 - 2026-11-06 深夜 用户「做阶段 7」→ 动效与声接进真代码：牌桌的牌改成真圆弧扇（以屏下方一点为轴，桌面半径 820、手机 520，卡从碑顶飞出错开 45 毫秒落到弧上，可拖转、滚轮转，拖过不算点）；大牌「翻过来读」先翻面 0.42 秒露出牌背零件再开阅读器（外链卡仍直接新标签页）；手机本子页的日历改成从右滑进的抽屉（石尺上「日历」钮，抽屉里「合上日历」）；记一笔落页后最后一段带墨点动画并淡入；本子页日期印盖印入场；三场柜底常驻一层慢雾流（仅此一处常驻，减少动效时关）；六个声全用 WebAudio 合成无音频文件（叮、烛噗、翻纸、落土、门吱呀、墨点），默认关，布置里「墓园的声」开，只在墓园场景响：点书脊翻纸加叮、放回烛噗、点碑落土、进场落土、点牌翻纸、记一笔墨点。mock 加 Playwright 核过：扇可拖转、抽屉开合、墨点标上、无报错；截图 docs/ui-stage7.jpg。翻面读的路径因测试账号的卡都是外链没跑到，逻辑简单；声在无头浏览器里不验。阶段 7 到此；剩阶段 6 印册（打卡印册、剪报确认窗）与阶段 8 App 壳，以及把新场景设成默认。
@@ -137,6 +138,7 @@ updated: 2026-11-06
 - 宝石规则是否改成按"能不能回忆"定（沿自 BRIEF）。
 
 ## 日志
+- 2026-11-06 深夜 手机三场整座完整、标签按屏幕尺寸画。
 - 2026-11-06 深夜 App 重做成游戏式舞台：空场三张（P035 到 P037，4.5 元）差分拆家具层，HUD 壳，全屏舞台与镜头，整座家具长出；docs/ui-app.jpg。今日生图合计约 60 元。
 - 2026-11-06 深夜 独立 App「邮差」：youchai/ 入口（PWA、manifest、图标、APP 模式）、mock 路由，docs/ui-app.jpg。
 - 2026-11-06 深夜 阶段 7：圆弧扇拖转、翻面读、日历抽屉、墨点、盖印、雾流、六个合成声（默认关）；docs/ui-stage7.jpg。
